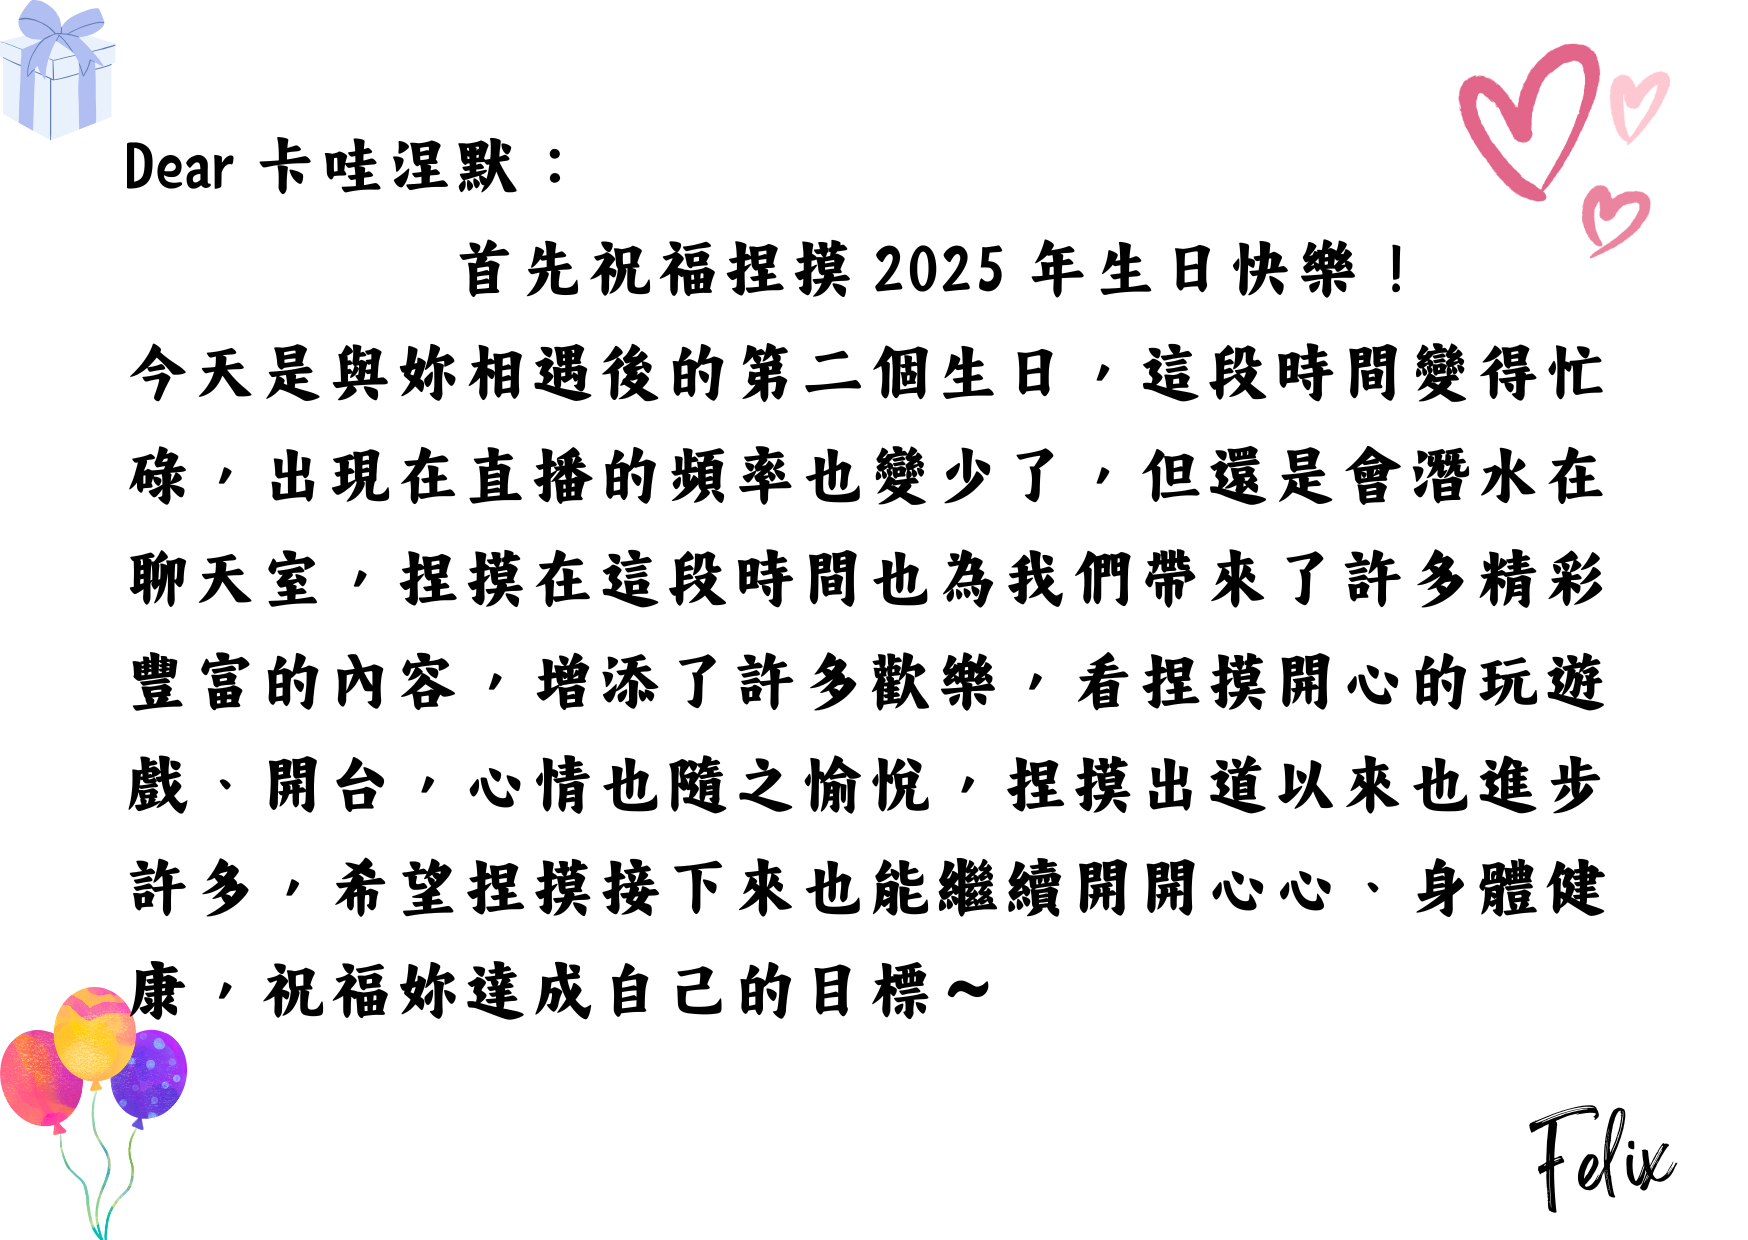
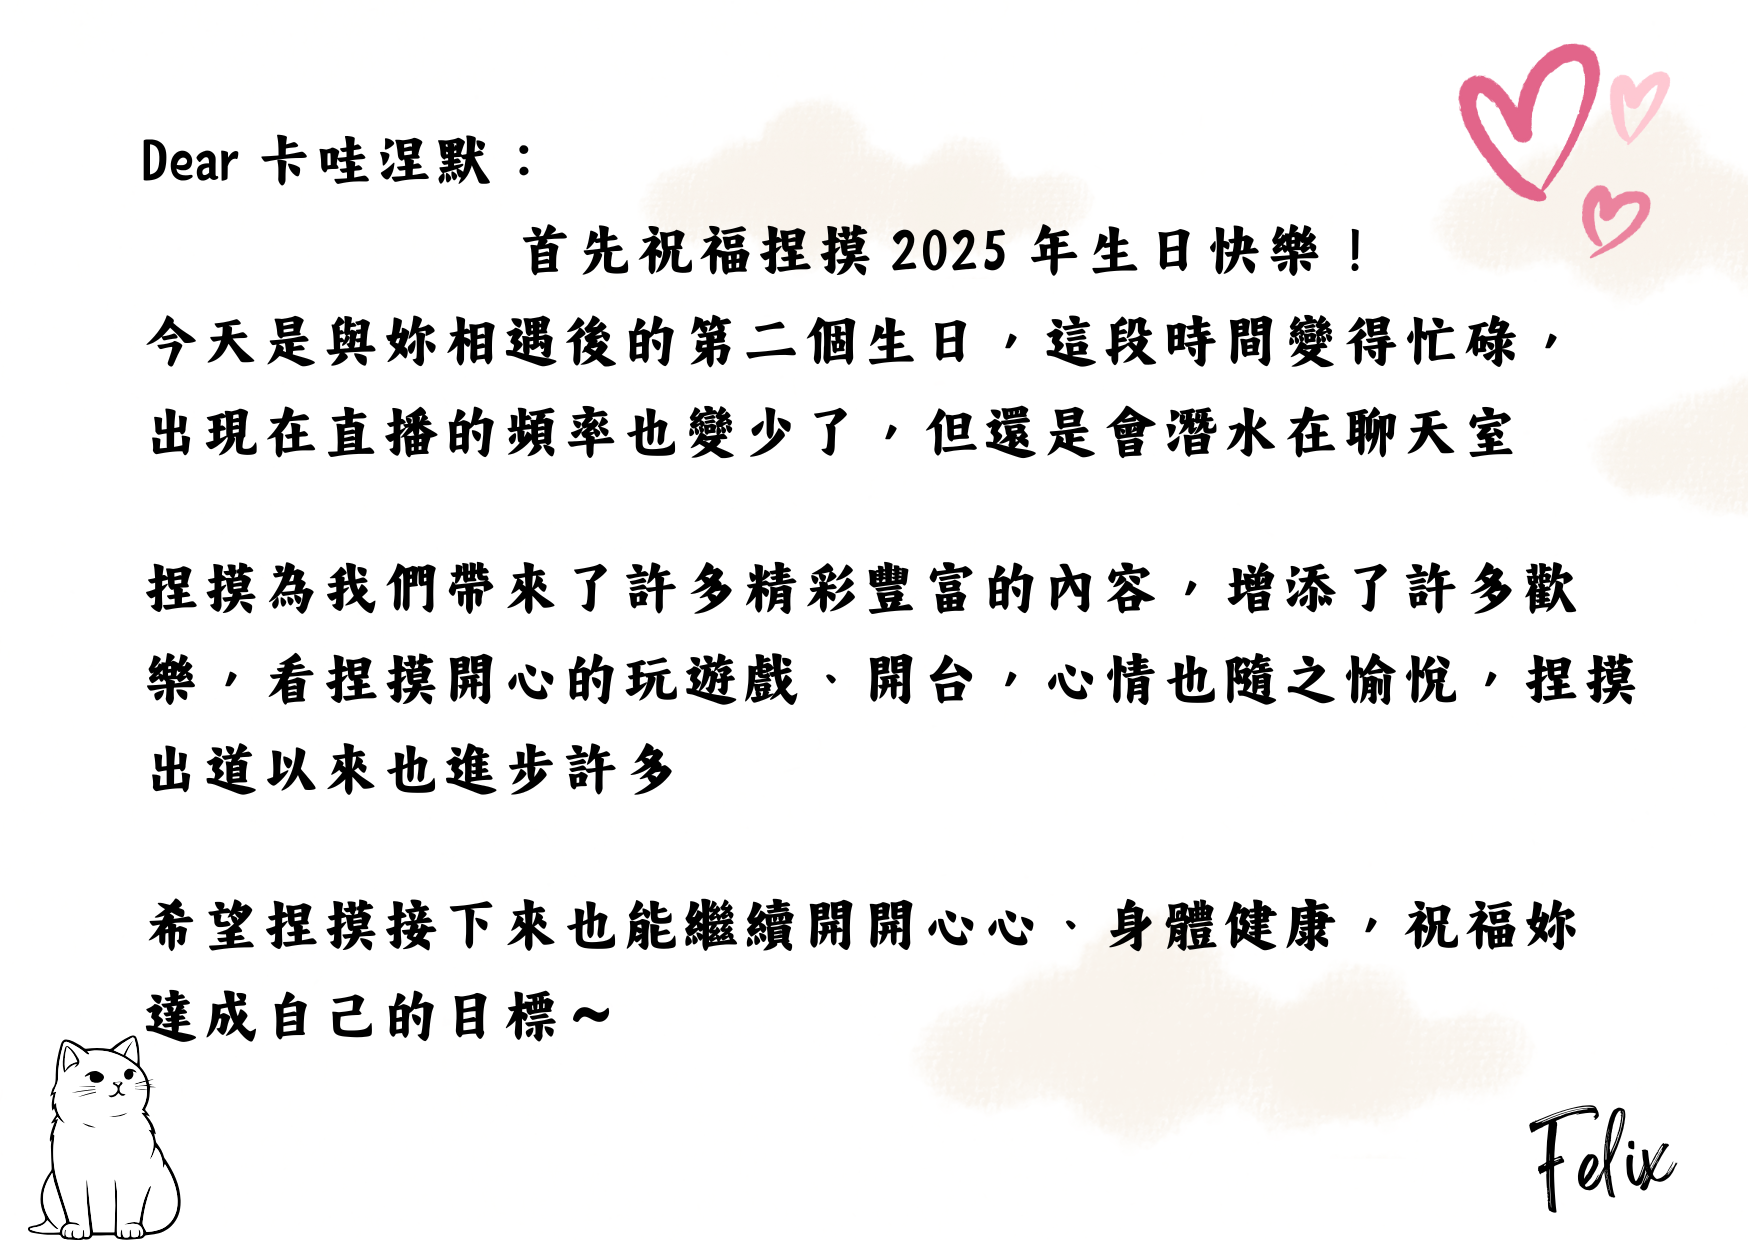
add moving background

Changed region(s): [[0.0, 0.521, 0.9577, 1.0], [0.0618, 0.1839, 0.9268, 0.4903], [0.0, 0.0, 0.3089, 0.1532]]

diff --git a/src/App.tsx b/src/App.tsx
@@ -1,11 +1,16 @@
 import React from "react";
 import FlipCard from "./FlipCard";
-import frontImage from "./assets/front.png"; // 放置圖片的路徑
-import backImage from "./assets/back.png"; // 放置圖片的路徑
+import frontImage from "./assets/front.png";
+import backImage from "./assets/back.png";
+import backgroundImage from "./assets/Nemo.png"
+import "./index.css"; // 確保載入 CSS
 
 const App: React.FC = () => {
   return (
-    <div
+    <div>
+      <img src={backgroundImage} alt="Background" className="moving-background" />
+
+      <div
       style={{
         display: "flex",
         flexDirection: "column",
@@ -14,13 +19,15 @@ const App: React.FC = () => {
         width: "100vw",
         height: "100vh",
         textAlign: "center",
-        gap: "20px", // 控制 h1 與 FlipCard 的距離
+        position: "relative",
       }}
-    >
-      <h1 style={{ marginTop: "50px", color: "black" }}>祝捏摸 2025 生日快樂</h1>
-      <p style={{ color: "black" }}>... 點按翻開卡片 ...</p>
-      <FlipCard frontImage={frontImage} backImage={backImage} />
+      >
+        <h1 style={{ marginTop: "50px", color: "black" }}>祝捏摸 2025 生日快樂</h1>
+        <p style={{ color: "black" }}>... 點按翻開卡片 ...</p>
+        <FlipCard frontImage={frontImage} backImage={backImage} />
+      </div>
     </div>
+    
   );
 };
 

diff --git a/src/index.css b/src/index.css
@@ -67,3 +67,30 @@ button:focus-visible {
     background-color: #f9f9f9;
   }
 }
+
+@keyframes moveAround {
+  0% {
+    transform: translate(10vw, 10vh);
+  }
+  25% {
+    transform: translate(80vw, 20vh);
+  }
+  50% {
+    transform: translate(40vw, 80vh);
+  }
+  75% {
+    transform: translate(20vw, 40vh);
+  }
+  100% {
+    transform: translate(10vw, 10vh);
+  }
+}
+
+.moving-background {
+  position: fixed;
+  width: 200px; /* 調整大小 */
+  height: 200px;
+  animation: moveAround 15s linear infinite alternate; /* 隨機移動 */
+  /* z-index: -1; 確保圖片位於背景，不影響其他元素 */
+}
+
